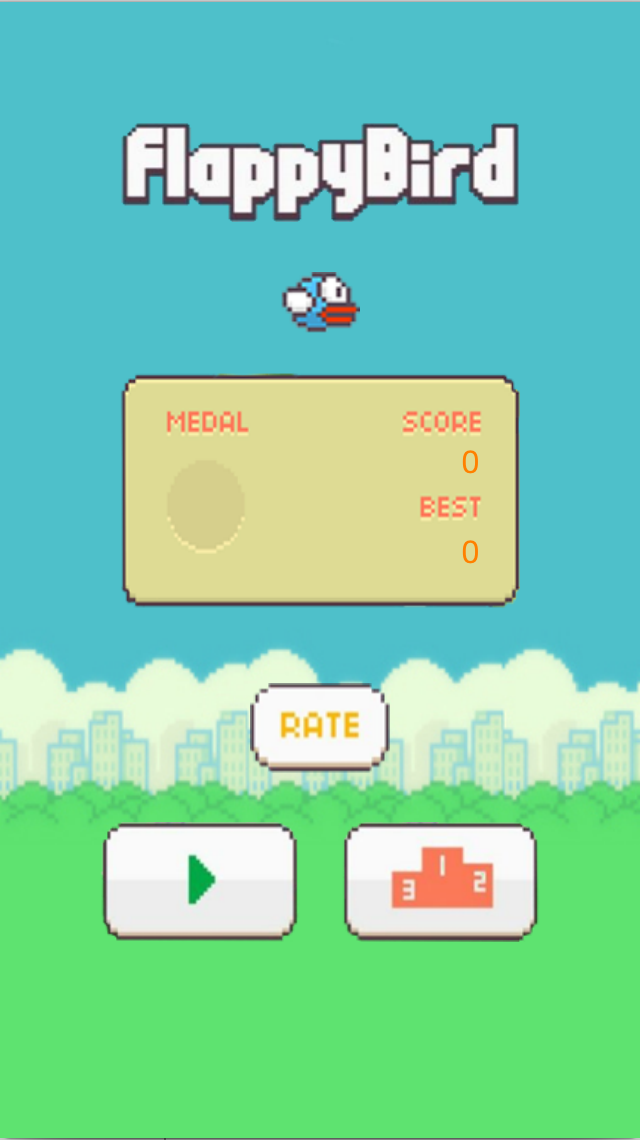
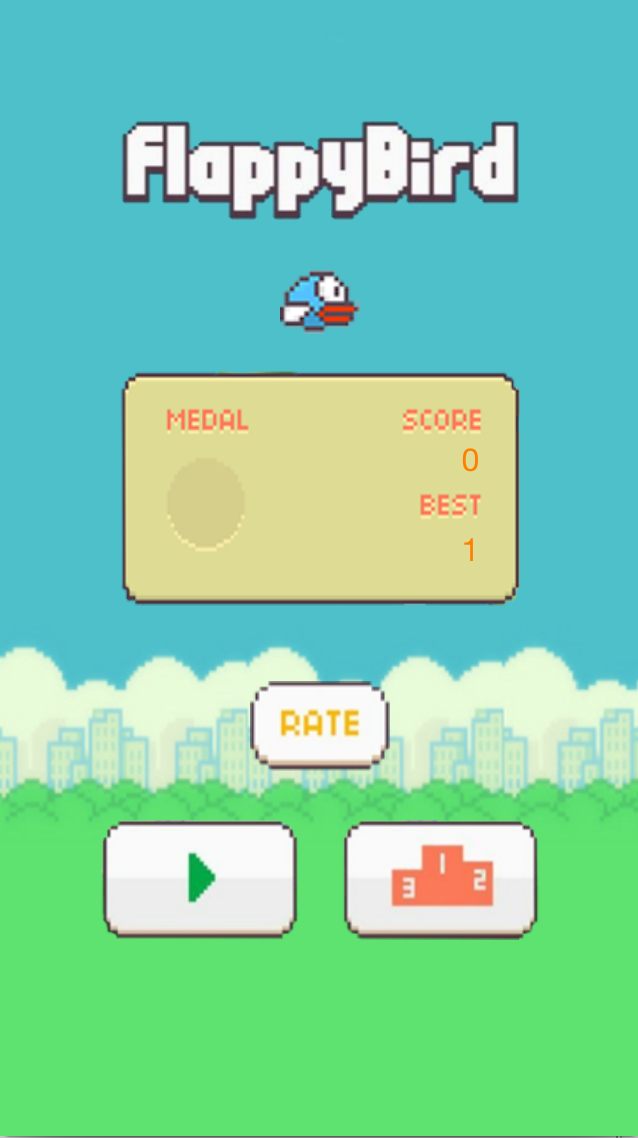
添加游戏分数记录功能

diff --git a/flappyBird/ViewController.m b/flappyBird/ViewController.m
@@ -9,6 +9,7 @@
 #import "ViewController.h"
 #import "GameViewController.h"
 #import "Common.h"
+#import "DataTool.h"
 
 @interface ViewController ()
 
@@ -46,7 +47,7 @@
     CGFloat bestW = 40;
     CGFloat bestH = 20;
     UILabel *bestScore = [[UILabel alloc] initWithFrame:CGRectMake(bestX, bestY, bestW, bestH)];
-    bestScore.text = @"0";
+    bestScore.text = [NSString stringWithFormat:@"%zi", [DataTool integerForKey:kBestScoreKey]];
     bestScore.font = [UIFont systemFontOfSize:16];
     bestScore.textAlignment = NSTextAlignmentRight;
     bestScore.textColor = [UIColor orangeColor];
@@ -57,7 +58,8 @@
     CGFloat scoreW = 40;
     CGFloat scoreH = 20;
     UILabel *score = [[UILabel alloc] initWithFrame:CGRectMake(scoreX, scoreY, scoreW, scoreH)];
-    score.text = @"0";
+    score.text = [NSString stringWithFormat:@"%zi", [DataTool integerForKey:kCurrentScoreKey]];
+    
     score.font = [UIFont systemFontOfSize:16];
     score.textAlignment = NSTextAlignmentRight;
     score.textColor = [UIColor orangeColor];
@@ -111,7 +113,6 @@
 -(void)onStartButtonClick{
     GameViewController *gameController = [[GameViewController alloc] init];
     [self presentViewController:gameController animated:YES completion:nil];
-    NSLog(@"start");
 }
 
 #pragma mark 点击排行榜

diff --git a/flappyBird/Tool/SoundTool.m b/flappyBird/Tool/SoundTool.m
@@ -24,8 +24,7 @@
 
 #pragma mark - 私有方法
 #pragma mark 加载音效
--(SystemSoundID)loadSoundIdWithBundleName:(NSBundle*)bundle name:(NSString *)name
-{
+-(SystemSoundID)loadSoundIdWithBundleName:(NSBundle*)bundle name:(NSString *)name {
     SystemSoundID soundId;
     
     NSString *path = [bundle pathForResource:name ofType:@"mp3" ];
@@ -38,8 +37,7 @@
 }
 
 #pragma mark 加载声音文件到数据字典
--(NSDictionary *)loadSoundsWithBundle:(NSBundle *)bundle
-{
+-(NSDictionary *)loadSoundsWithBundle:(NSBundle *)bundle {
     NSMutableDictionary *dictM = [NSMutableDictionary dictionary];
     
     //数组中存放所有声音的文件名
@@ -57,8 +55,7 @@
 }
 
 #pragma mark - 实例化方法
--(id)init
-{
+-(id)init {
     self = [super init];
     
     if (self) {
@@ -79,8 +76,7 @@
 }
 
 #pragma mark 使用文件名播放音效
--(void)playSoundByFileName:(NSString *)fileName
-{
+-(void)playSoundByFileName:(NSString *)fileName {
     SystemSoundID soundId = [self.soundDict[fileName] unsignedIntValue];
     
     //播放音效

diff --git a/flappyBird/GameViewController.m b/flappyBird/GameViewController.m
@@ -11,6 +11,7 @@
 #import "RateViewController.h"
 #import "Common.h"
 #import "SoundTool.h"
+#import "DataTool.h"
 
 @interface GameViewController ()<UIActionSheetDelegate>
 {
@@ -183,9 +184,22 @@
     [self.view addSubview:gameOverView];
 }
 
+#pragma mark 更新分数记录
+-(void)updateScore {
+    if (columnNumber > [DataTool integerForKey:kBestScoreKey]) {
+        [DataTool setInteger:columnNumber forKey:kBestScoreKey];
+    }
+    [DataTool setInteger:columnNumber forKey:kCurrentScoreKey];
+}
+
 -(void)onStop {
+    //更新分数
+    [self updateScore];
+    //弹出gameover提示
     [self pullGameOverTip];
+    //停止定时器
     [timer setFireDate:[NSDate distantFuture]];
+    //弹出选项框
     UIActionSheet *action = [[UIActionSheet alloc]initWithTitle:nil delegate:self cancelButtonTitle:@"重新开始" destructiveButtonTitle:@"难度" otherButtonTitles:@"主菜单",nil];
     [action showInView:self.view];
 }

diff --git a/flappyBird/Tool/DataTool.h b/flappyBird/Tool/DataTool.h
@@ -1,0 +1,30 @@
+//
+//  DataTool.h
+//  flappyBird
+//
+//  Created by dengwei on 16/1/24.
+//  Copyright (c) 2016年 dengwei. All rights reserved.
+//
+
+#import <Foundation/Foundation.h>
+
+@interface DataTool : NSObject
+
+/**
+ *  根据指定key获取值
+ *
+ *  @param defaultName key值
+ *
+ *  @return 与key相对应的值
+ */
++ (NSInteger)integerForKey:(NSString *)defaultName;
+
+/**
+ *  设置相应的键值对
+ *
+ *  @param value       值
+ *  @param defaultName 键
+ */
++ (void)setInteger:(NSInteger)value forKey:(NSString *)defaultName;
+
+@end

diff --git a/flappyBird/Tool/DataTool.m b/flappyBird/Tool/DataTool.m
@@ -1,0 +1,22 @@
+//
+//  DataTool.m
+//  flappyBird
+//
+//  Created by dengwei on 16/1/24.
+//  Copyright (c) 2016年 dengwei. All rights reserved.
+//
+
+#import "DataTool.h"
+
+@implementation DataTool
+
++ (NSInteger)integerForKey:(NSString *)defaultName {
+    return [[NSUserDefaults standardUserDefaults] integerForKey:defaultName];
+}
+
++ (void)setInteger:(NSInteger)value forKey:(NSString *)defaultName {
+    [[NSUserDefaults standardUserDefaults] setInteger:value forKey:defaultName];
+    [[NSUserDefaults standardUserDefaults] synchronize];
+}
+
+@end

diff --git a/flappyBird/Other/Common.h b/flappyBird/Other/Common.h
@@ -48,4 +48,9 @@
 /**屏幕高度*/
 #define kScreenHeight [UIScreen mainScreen].bounds.size.height
 
+/**最佳成绩*/
+#define kBestScoreKey @"bestScore"
+/**本局成绩*/
+#define kCurrentScoreKey @"currentScore"
+
 #endif
